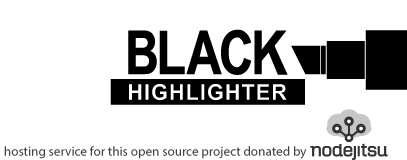
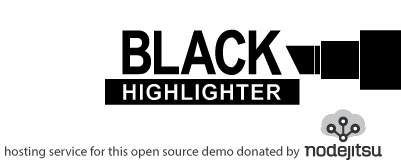
Sandbox emphasis in UI, HTML5 cleanup, closes #20

diff --git a/views/base.html b/views/base.html
@@ -1,4 +1,6 @@
-<!DOCTYPE html PUBLIC "-//W3C//DTD XHTML 1.0 Transitional//EN" "http://www.w3.org/TR/xhtml1/DTD/xhtml1-transitional.dtd">
+<!doctype html>
+<html lang="en">
+
 {# This is a swig-templated HTML file #}
 {# http://paularmstrong.github.com/swig/ #}
 
@@ -33,13 +35,12 @@ jquery and jquery UI... and set up a params-javascript block.
 You will probably want to copy and customize this file.
 {% endcomment %}
 
-<html xmlns="http://www.w3.org/1999/xhtml" xml:lang="en" lang="en">
 	<head>
-		<meta http-equiv="Content-Type" content="text/html; charset=utf-8" />
-		<meta name="keywords" content="" />
+		<meta charset="utf-8">
+		<meta name="keywords" content="security transparency accountability redaction" />
 		<meta name="description" content="" />
 
-		<title>{% block title %}Blackhighlighter{% endblock %}</title>
+		<title>{% block title %}Blackhighlighter Demo Sandbox{% endblock %}</title>
 
 
 	<!-- Django allows us to pass parameters into our templates, good to have as javascript vars -->
@@ -144,15 +145,9 @@ You will probably want to copy and customize this file.
 		{% if HOSTING_SERVICE %}
 		and <a href="{{ HOSTING_SERVICE_URL }}">{{ HOSTING_SERVICE }}</a>
 		{% endif %}
-		: (<a href="https://github.com/hostilefork/blackhighlighter/blob/master/CREDITS.md" target="_blank">full credits</a>)
+		: (<a href="https://github.com/hostilefork/blackhighlighter/blob/master/CREDITS.md" target="_blank">full credits</a>, <a href="http://blackhighlighter.hostilefork.com">project homepage</a>)
 	</p>
 {% endblock credits %}
-{% block copyright %}
-	<div class="copyright">
-		Copyleft <img src="{{ PROJECT_MEDIA_URL }}copyleft.png" style="vertical-align: middle;" alt="Copyleft Logo" /> 2009-2014 <a href="http://blackhighlighter.hostilefork.com/" target="_blank">hostilefork.com</a> &mdash;
-		<a href="https://github.com/hostilefork/blackhighlighter/">view on GitHub</a>
-	</div>
-{% endblock copyright %}
 
 	</div>
 

diff --git a/views/write-protect.html b/views/write-protect.html
@@ -42,15 +42,20 @@
 	-->{# {% endcomment %} #}
 	</div>
 
-	<div class="trailing-section">
-		<p>You won't be sending the marked out text of your letter to the server. 
-		Instead, you will be sending digital verification numbers that can
-		be used to prove what you wrote is what you entered here at the time of
-		authorship.  These will be given back to you in the form of a
-		certificate, which you may share privately with who you wish.</p>
+	<div id="commit-json-accordion"><h3>View the low-level redacted data that will be sent to the server</h3>
+		<div>
+			<div id='json-commit'>
+				{# Filled on demand #}
+			</div>
+		</div>
+	</div>
 
-		<p>When you're satisfied that everything you didn't mark out is okay to
-		publish on the internet so anyone can see it, continue.</p>
+	<div class="trailing-section">
+		<p>The marked out text of your letter won't be published.  Instead,
+		what will be published are digital signatures that can be used to
+		verify what you entered, without actually containing the hidden text.
+		You will be given certificates for these missing parts, that you may
+		share privately with who you wish.</p>
 
 		<div class="error-display" style="display: none;">
 			<div class="ui-state-error ui-corner-all" style="margin-top: 20px; padding: 0 .7em;"> 
@@ -65,15 +70,6 @@
 			<button id="commit-button">
 				<b>Publish the Public Portions</b>
 			</button></p>
-		</div>
-
-		{# This is an accordion widget #}
-		<div id="commit-json-accordion"><h3>View the redacted JSON that will be sent to the server</h3>
-			<div>
-				<div id='json-commit'>
-		{# Filled on demand #}
-				</div>
-			</div>
 		</div>
 
 		<div id="progress-commit" style="display: none;">

diff --git a/views/read-reveal.html b/views/read-reveal.html
@@ -39,11 +39,20 @@
 	<div class="textarea-wrapper">
 	</div>
 
+	<div id="reveal-json-accordion">
+		<h3>View the low-level data that will be revealed to the server</h3>
+		<div id='json-reveal'>
+			{# Filled by switching tabs #}
+		</div>
+	</div>
+
 	<div class="trailing-section">
-		<p>Remember that you can still send the certificates to any party who wants to verify 
-		the letter without publishing it to the world!  So reveal only if you are the sender
-		or if it's absolutely necessary.</p>
-		<i>If you are <b>sure</b> you want to reveal</i>, click the 
+		<p>Remember that you can still send the certificates to any party
+		who wants to verify the letter without publishing it to the whole world!
+		So reveal only if you are the sender, or if it's absolutely necessary
+		to prove a point about the communication.</p>
+
+		<p><i>If you are <b>sure</b> you want to reveal</i>, click the 
 		button below.</p>
 
 		<div class="error-display" style="display: none;">
@@ -63,13 +72,6 @@
 
 		<div id="progress-reveal" style="display: none;">
 			<div class="indeterminate-progress"></div>
-		</div>
-
-		<div id="reveal-json-accordion">
-			<h3>View the JSON reveal that will be sent to the server</h3>
-			<div id='json-reveal'>
-				{# Filled by switching tabs #}
-			</div>
 		</div>
 	</div>
 </div>

diff --git a/views/write-compose.html b/views/write-compose.html
@@ -46,14 +46,16 @@
 			</button>
 		</div>
 
-		<div class="ui-state-highlight ui-corner-all" style="margin-top: 20px; padding: 0 .7em;"> 
-			<p><span class="ui-icon ui-icon-info" style="float: left; margin-right: .3em;"></span>
-			<strong>Note:</strong> Since there is no communication with the
-			server during composition or protection, a copy of what you are
-			writing is not being saved as you type. You might want to compose in
-			a local application with auto-save, and then paste here when you are
-			finished.</p>
-		</div>
+		<div class="ui-state-highlight ui-corner-all" style="margin-top: 20px; padding: 0 .7em;"><p>
+			<span class="ui-icon ui-icon-info" style="float: left; margin-right: .3em;"></span>
+			<strong>Note:</strong> This
+			website is a <i>demonstration sandbox</i> for using the blackhighlighter
+			jQuery plugin.  The database is regularly erased&mdash;which means your post might not be here tomorrow!  If you want a more persistent service, then
+			<a href="https://github.com/hostilefork/blackhighlighter">
+			install the software yourself</a>, or get in touch with
+			<span style="font-family: monospace;">brian@hostilefork.com</span>
+			about joining forces to build blackhighlighter.com
+		</p></div>
 	</div>
 
 </div>

diff --git a/views/read-show.html b/views/read-show.html
@@ -26,7 +26,9 @@
 <div class="tabs-content" id="tabs-show">
 
 	<div class="leading-section">
-		<p>Here is the letter in its current viewable form. Blacked out portions were protected by the author.<p>
+		<p>This is a post on a
+		 <a href="http://blackhighlighter.hostilefork.com" target="_blank">blackhighlighter</a> system.  Blacked-out portions were protected by
+		 the author.<p>
 		<ul>
 		<li>Text with a <span style="color: yellow;">yellow</span> background was protected by the author, but has been verified <i>in your browser only</i></li>
 		<li>Text with a <span style="color: green;">green</span> background was at one time protected, but has since been revealed to the general public.</li>
@@ -86,12 +88,5 @@
 		{% endfor %}
 		</div>
 		-->
-
-		<div class="ui-state-highlight ui-corner-all" style="margin-top: 20px; padding: 0 .7em;"><p>
-			<span class="ui-icon ui-icon-info" style="float: left; margin-right: .3em;"></span>
-		  	<strong>Note:</strong> This is a letter on a blackhighlighter system.  If you have any
-		  	question about what that means, see <a href="http://blackhighlighter.hostilefork.com/" target="_blank">
-		  	http://blackhighlighter.hostilefork.com/</a>.
-		</p></div>
 	</div>
 </div>

diff --git a/public/read.js b/public/read.js
@@ -471,13 +471,13 @@ define([
 			if (err) {
 				notifyErrorOnTab('verify', err);
 			} else {
-				$('#certificates').empty();
+				$('#certificates').val('');
 				$('#tabs').tabs('option', 'active', tabIndexForId('tabs-show'));
 			}
 			
 			$('#progress-verify').hide();
 			$('#buttons-verify').show();
-		}, 3000);
+		}, 2000);
 
 		clearErrorOnTab('verify');
 	
@@ -567,7 +567,7 @@ define([
 					window.navigate(clientCommon.absoluteFromRelativeURL(PARAMS.show_url));
 				}
 			}
-		}, 3000);
+		}, 2000);
 
 		$('#tabs').tabs('disable', tabIndexForId('tabs-verify'));
 		$('#tabs').tabs('disable', tabIndexForId('tabs-show'));

diff --git a/public/write.js b/public/write.js
@@ -281,7 +281,7 @@ define([
 			$('#tabs').tabs('option', 'active', tabIndexForId('tabs-commit'));
 			$('#tabs').tabs('disable', tabIndexForId('tabs-protect'));
 		}
-	}, 3000);
+	}, 2000);
 	
 	$("#commit-button").button().on('click', function(eventObj) {
 		if ($("#editor").blackhighlighter('option', 'mode') === 'show') {

diff --git a/public/demo.css b/public/demo.css
@@ -98,7 +98,7 @@ div.tabs-content div.action-buttons {
 	text-align: center;
 }
 
-div.copyright, div.credits {
+div.credits {
 	text-align: center;
 }
 
